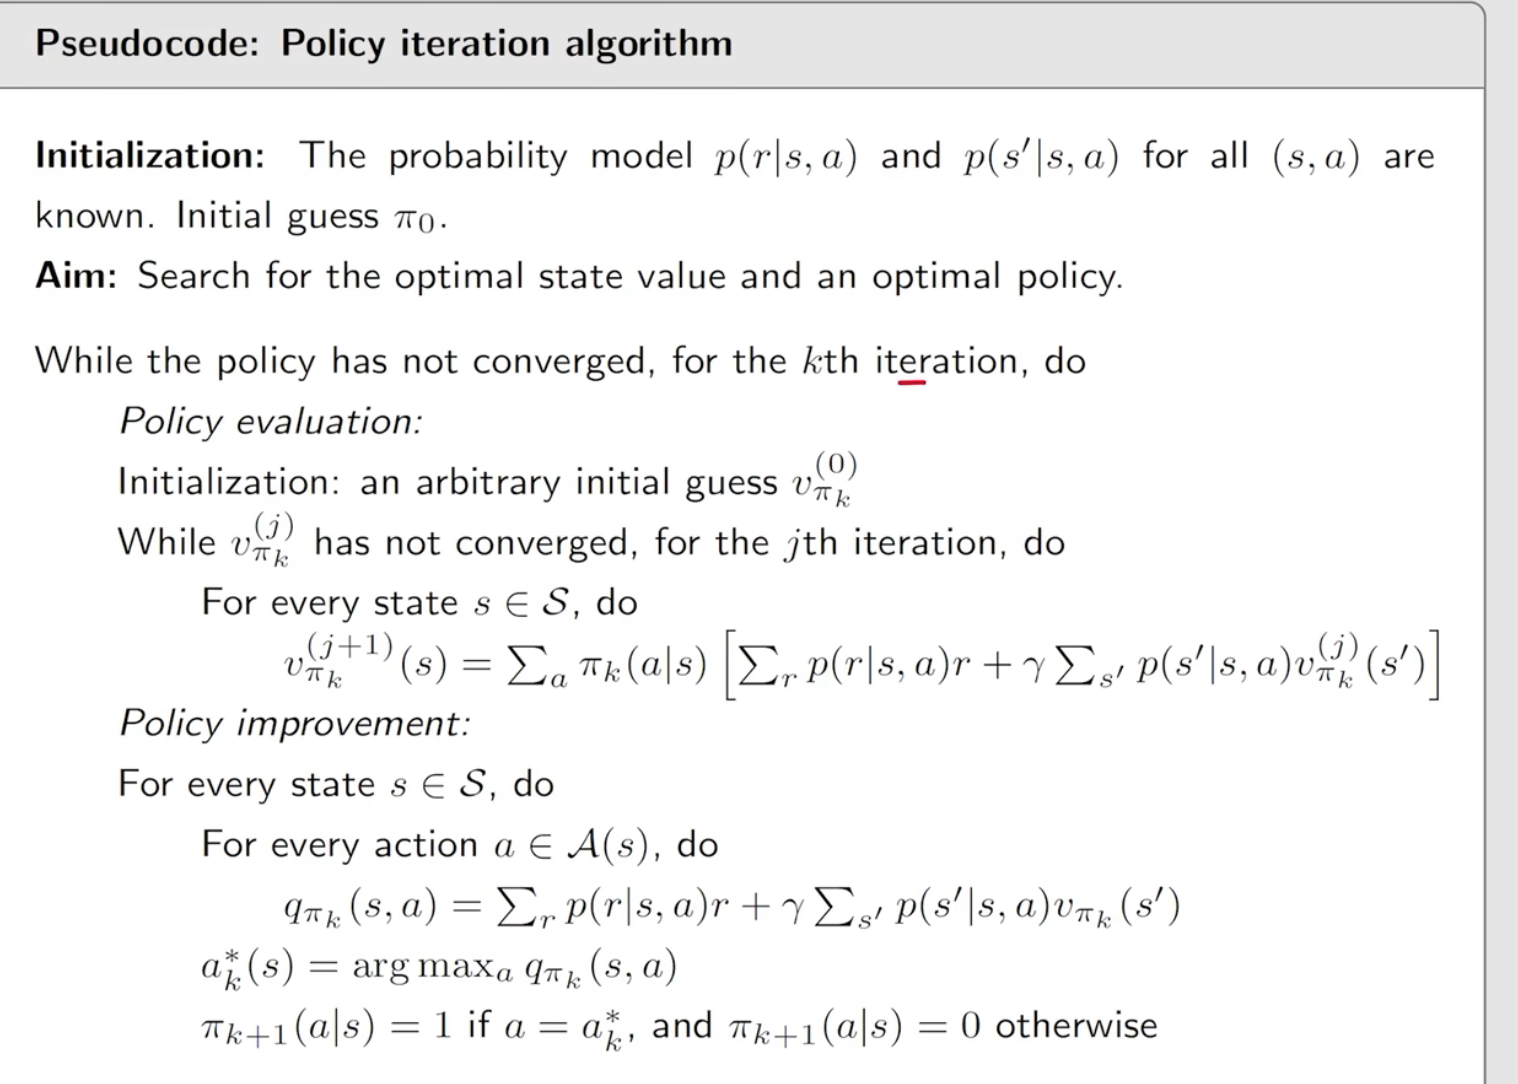
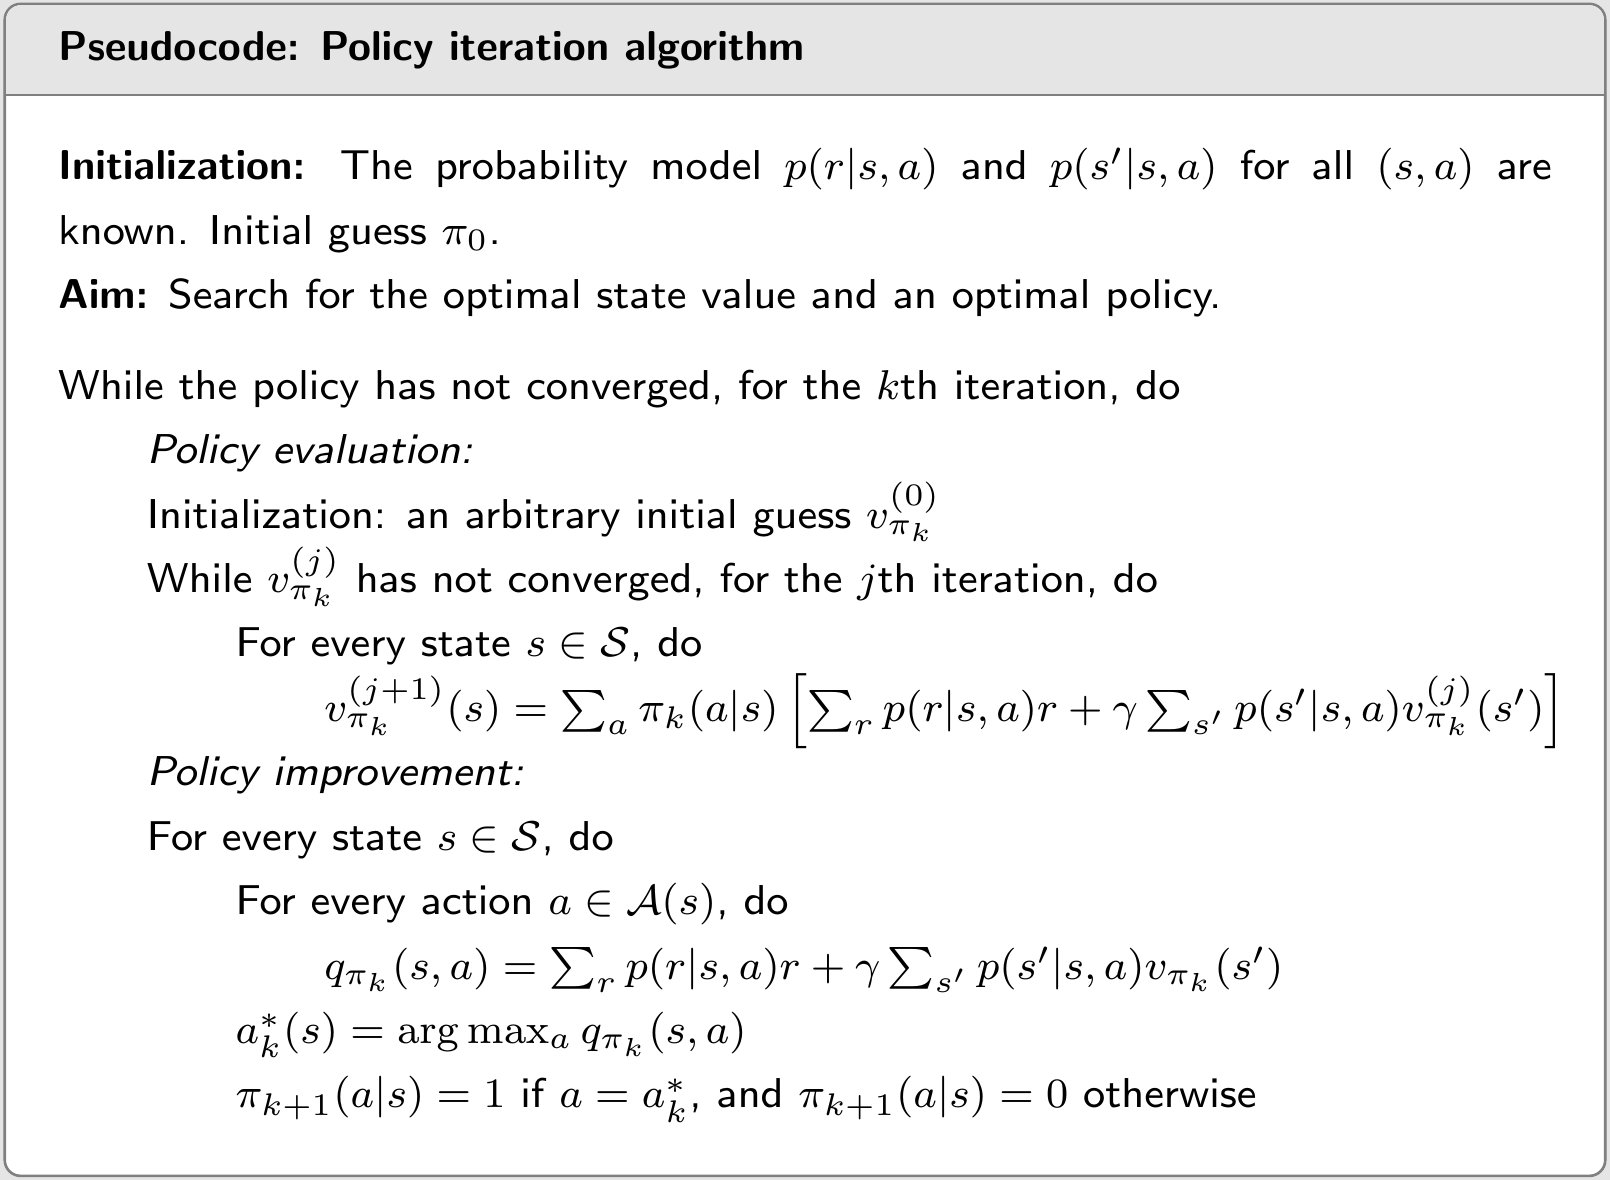
docs: 换用第四课原课件中的清晰伪代码

Changed region(s): [[0.0, 0.0, 1.0, 1.0]]

diff --git a/docs/reinforcement-learning/value-policy-iteration.md b/docs/reinforcement-learning/value-policy-iteration.md
@@ -111,7 +111,7 @@ $$
 <strong>初始化：</strong> 已知各状态动作对的奖励与转移概率，给定初始估计 $\mathbf v_0$。目标是求出 BOE 的最优状态价值和一套最优策略。先做一次更新，再用相邻两轮价值之差是否低于预设阈值判断是否继续。
 
 <figure>
-  <img src="./resources/value-policy-iteration/iteration-09-procedure.webp" alt="课件原版 Value Iteration 伪代码：初始化模型与初值，逐状态遍历动作计算 q 值，更新贪心策略与价值，检查相邻两轮价值差。" width="559" height="343" loading="lazy">
+  <img src="./resources/value-policy-iteration/value-iteration-pseudocode.png" alt="课件原版 Value Iteration 伪代码：初始化模型与初值，逐状态遍历动作计算 q 值，更新贪心策略与价值，检查相邻两轮价值差。" width="1610" height="984" loading="lazy">
 </figure>
 
 </div>
@@ -283,7 +283,7 @@ $$
 已知奖励与转移模型并给定初始策略。外层反复执行评估与改进，直到策略稳定；内层只评估当前策略，达到精度要求后才进行下一次改进。
 
 <figure>
-  <img src="./resources/value-policy-iteration/policy-iteration-pseudocode.png" alt="课件原版 Policy Iteration 伪代码：外层循环先评估固定策略，内层遍历状态直到价值收敛，再逐状态对动作价值做贪心改进。" loading="lazy">
+  <img src="./resources/value-policy-iteration/policy-iteration-pseudocode.png" alt="课件原版 Policy Iteration 伪代码：外层循环先评估固定策略，内层遍历状态直到价值收敛，再逐状态对动作价值做贪心改进。" width="1610" height="1180" loading="lazy">
 </figure>
 
 <strong>Q4 · 与值迭代的联系：</strong>两者都逐状态做贪心选择。值迭代每轮只按贪心策略更新一次价值；策略迭代先充分评估固定策略，再用评估结果做下一次贪心选择。
